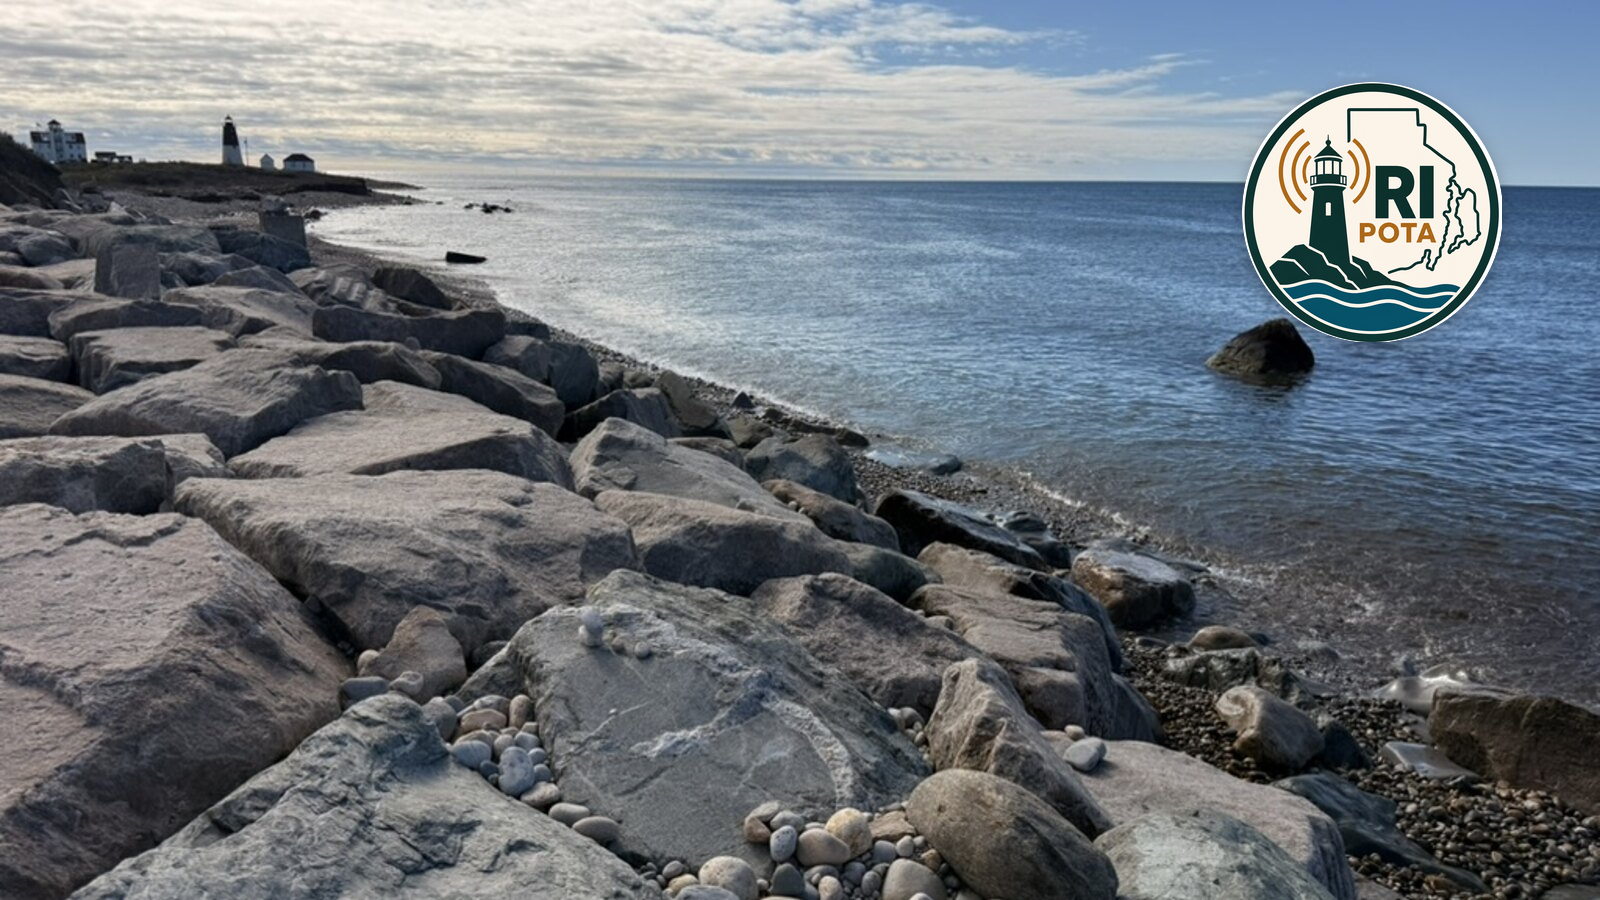
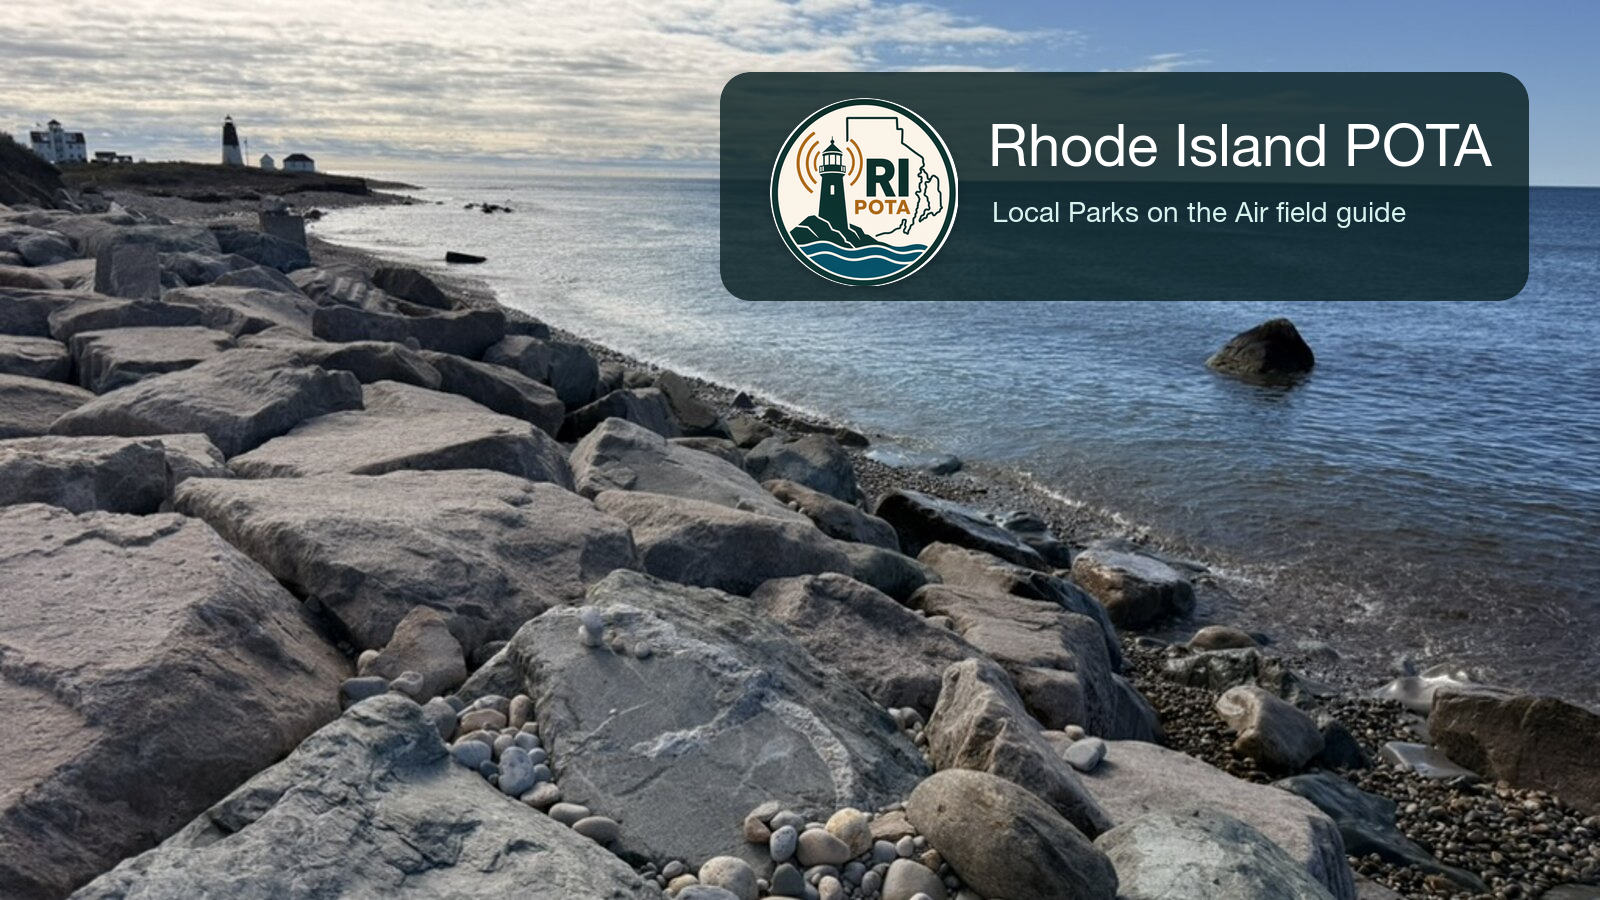
Add share card generator
Render the social preview as a reusable Option B logo and text lockup over
the Rhode Island coastline photo. Add a mise task to regenerate the PNG
from the checked-in hero image and logo assets when those inputs change.

Changed region(s): [[0.4375, 0.0622, 0.9688, 0.4044]]

diff --git a/src/data/site.test.ts b/src/data/site.test.ts
@@ -43,7 +43,7 @@ describe("site content", () => {
         type: "image/png",
       }),
     );
-    expect(defaultShareImage.alt).toMatch(/RI POTA coastal signal logo/i);
+    expect(defaultShareImage.alt).toMatch(/RI POTA logo and Rhode Island POTA title/i);
   });
 
   it("uses public-ready resource copy instead of launch placeholders", () => {

diff --git a/src/data/site.ts b/src/data/site.ts
@@ -33,7 +33,7 @@ export const heroImage = {
 
 export const defaultShareImage = {
   src: "/assets/ripota-share-card.png",
-  alt: "A Rhode Island shoreline photo with the RI POTA coastal signal logo overlaid.",
+  alt: "A Rhode Island shoreline photo with the RI POTA logo and Rhode Island POTA title overlaid.",
   width: 1600,
   height: 900,
   type: "image/png",